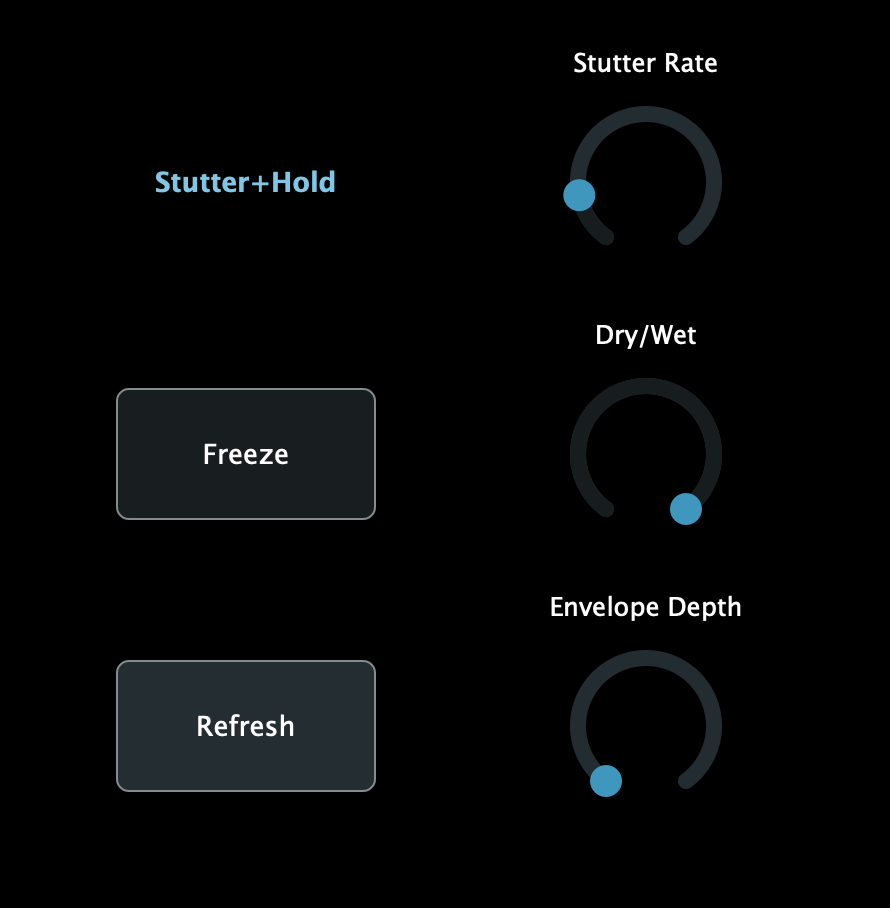
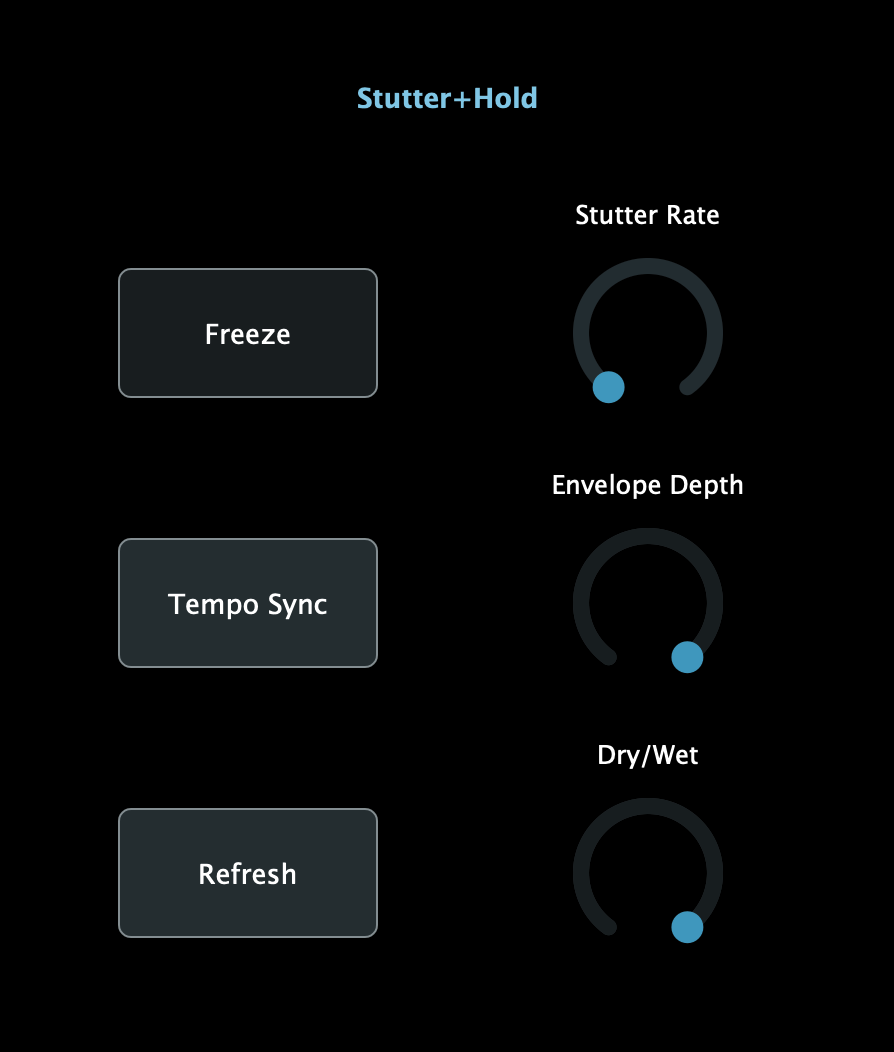
Update readme and figure

diff --git a/README.md b/README.md
@@ -8,10 +8,11 @@ Under the hood it's built on a _phase vocoder_, but this is all really just an e
 
 ## Effect parameters
 - _Freeze_ sets the plugin to on or off.
-- _Refresh_ is a manual trigger to grab a new frame to freeze on.
+- _Tempo Sync_ sets the stutter rate to sync with the DAW playback tempo.
+- _Refresh_ is a manual trigger to grab a new frame to freeze on (only useful when Stutter Rate is set to 0).
 - _Stutter Rate_ sets the freeze update rate in Hz.
-- _Dry/Wet_ sets the mix of processed and unprocessed audio.
 - _Envelope Depth_ determines how much the effect (the frozen part) follows the amplitude envelope of the wet signal. Fun stuff.
+- _Dry/Wet_ sets the mix of processed and unprocessed audio.
 
 ## The Overlap-add buffer class
 
